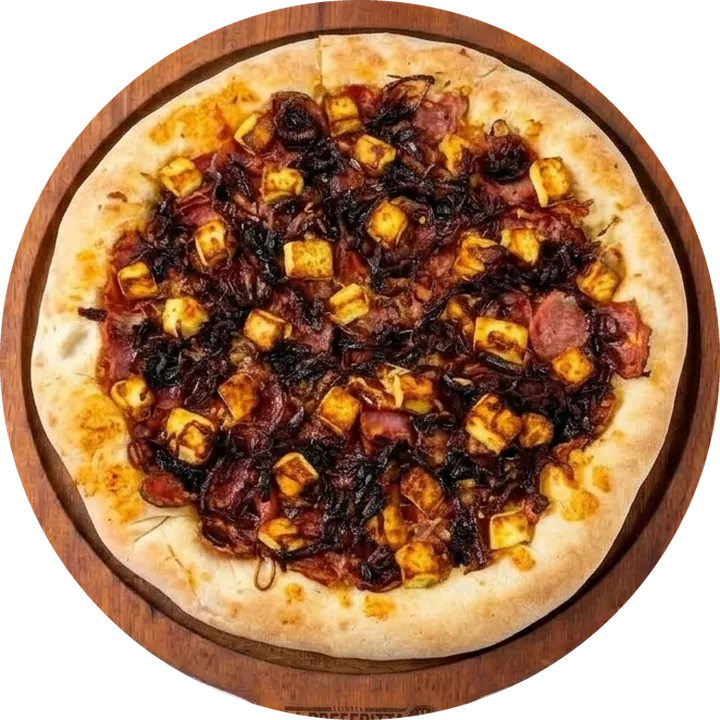
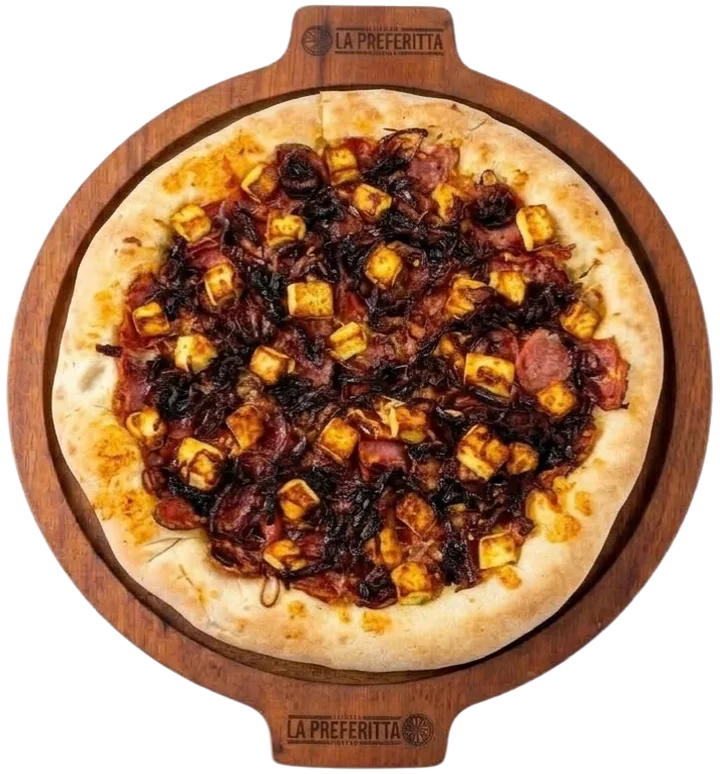
Serve menu pizzas with a straight slide on full boards
Pizzas now slide in from off-page with no rotation, 1s on
cubic-bezier(.17,.67,.14,.96). When the flavor changes, the current board is
pushed out on the same curve one screen apart, so the two never overlap.

- Replace round cutouts with the client's transparent full-board PNGs
  (handles included), aligned on one shared canvas
- Teaser and list thumbnails keep the board shape and no longer spin
- Copy cross-fades in a single grid cell so the panel height stays steady

diff --git a/src/components/menu-section.tsx b/src/components/menu-section.tsx
@@ -21,7 +21,8 @@ import { cardapio, isFilled, menuImage, splitIngredients, type MenuItem } from "
 
 // One easing family for the whole menu: long, soft deceleration.
 const ease = [0.22, 1, 0.36, 1] as const;
-const settle: Transition = { type: "spring", bounce: 0.14, visualDuration: 1.05 };
+// Serving slide: every pizza enters (and is pushed out) with this curve over one second.
+const slide: Transition = { duration: 1, ease: [0.17, 0.67, 0.14, 0.96] };
 
 const salgadas = cardapio.filter((item) => item.kind === "salgada");
 const doces = cardapio.filter((item) => item.kind === "doce");
@@ -87,7 +88,7 @@ function MenuRow({
           src={menuImage(item.slug, "sm")}
           alt=""
           width={440}
-          height={440}
+          height={473}
           loading="lazy"
           decoding="async"
           className="menu-row-thumb"
@@ -165,22 +166,16 @@ function MenuList({
 
 // ---------------------------------------------------------------- detail
 
-// The pizza arrives from beyond the edge of the page, turning as it slides, and
-// settles on the table; it leaves the same way it would be pushed off by hand.
+// The pizza is served from beyond the edge of the page and slides straight to its
+// place on the table, no spin. When the flavor changes, the current board is pushed
+// off the other side on the same curve and at the same time, one full screen apart,
+// so the two never overlap.
 const plateVariants: Variants = {
-  enter: (dir: number) => ({ x: dir > 0 ? "72vw" : "-72vw", rotate: dir > 0 ? 150 : -150 }),
-  center: {
-    x: 0,
-    rotate: 0,
-    transition: { x: settle, rotate: { ...settle, visualDuration: 1.25 } },
-  },
-  exit: (dir: number) => ({
-    x: dir > 0 ? "-72vw" : "72vw",
-    rotate: dir > 0 ? -110 : 110,
-    transition: { duration: 0.75, ease: [0.55, 0, 0.8, 0.3] },
-  }),
-  // Back to the list: the pizza is slid off the table the way it came in.
-  leave: { x: "72vw", rotate: 120, transition: { duration: 0.7, ease: [0.55, 0, 0.8, 0.3] } },
+  enter: (dir: number) => ({ x: dir > 0 ? "100vw" : "-100vw" }),
+  center: { x: 0, transition: slide },
+  exit: (dir: number) => ({ x: dir > 0 ? "-100vw" : "100vw", transition: slide }),
+  // Back to the list: the board slides off the table the way it came in.
+  leave: { x: "100vw", transition: slide },
 };
 
 const copyVariants: Variants = {
@@ -259,23 +254,13 @@ function MenuDetail({
 
       <div className="menu-table">
         <AnimatePresence initial={true} custom={dir} mode="popLayout">
-          <motion.div
-            key={`shadow-${item.slug}`}
-            className="menu-plate-shadow"
-            aria-hidden="true"
-            initial={{ opacity: 0, scale: 0.7 }}
-            animate={{ opacity: 1, scale: 1, transition: { duration: 0.9, ease, delay: 0.45 } }}
-            exit={{ opacity: 0, transition: { duration: 0.25 } }}
-          />
-        </AnimatePresence>
-        <AnimatePresence initial={true} custom={dir} mode="popLayout">
           <motion.img
             key={item.slug}
             src={menuImage(item.slug)}
             srcSet={`${menuImage(item.slug, "sm")} 440w, ${menuImage(item.slug)} 720w`}
-            sizes="(max-width: 1023px) 82vw, 34rem"
+            sizes="(max-width: 1023px) 78vw, 32rem"
             width={720}
-            height={720}
+            height={774}
             alt={`Pizza ${item.name} sobre a tábua da La Preferitta, vista de cima`}
             decoding="async"
             draggable={false}
@@ -298,42 +283,46 @@ function MenuDetail({
       </div>
 
       <div className="menu-copy" aria-live="polite">
-        <AnimatePresence mode="wait" initial={true}>
-          <motion.div
-            key={item.slug}
-            variants={copyVariants}
-            initial="enter"
-            animate={leaving ? "exit" : "center"}
-            exit="exit"
-          >
-            <motion.h3 ref={focusTitle} tabIndex={-1} variants={copyLine} className="menu-name">
-              {item.name}
-            </motion.h3>
-            <motion.p variants={copyLine} className="menu-kind">
-              Pizza {item.kind}
-            </motion.p>
-            <ul className="menu-ingredients" aria-label="Ingredientes">
-              {splitIngredients(item.ingredients).map((ingredient) => (
-                <motion.li key={ingredient} variants={copyLine}>
-                  {ingredient}
-                </motion.li>
-              ))}
-            </ul>
-            {isFilled(item.price) && (
-              <motion.p variants={copyLine} className="menu-price">
-                {item.price}
+        {/* Old and new copy cross-fade in one grid cell, so the height never collapses. */}
+        <div className="menu-copy-stack">
+          <AnimatePresence initial={true}>
+            <motion.div
+              key={item.slug}
+              className="menu-copy-item"
+              variants={copyVariants}
+              initial="enter"
+              animate={leaving ? "exit" : "center"}
+              exit="exit"
+            >
+              <motion.h3 ref={focusTitle} tabIndex={-1} variants={copyLine} className="menu-name">
+                {item.name}
+              </motion.h3>
+              <motion.p variants={copyLine} className="menu-kind">
+                Pizza {item.kind}
               </motion.p>
-            )}
-            <motion.div variants={copyLine} className="mt-8">
-              <OrderTarja
-                tone="ink"
-                label="Pedir esta pizza"
-                ariaLabel={`Pedir esta pizza: ${item.name}`}
-                className="sm:max-w-sm"
-              />
+              <ul className="menu-ingredients" aria-label="Ingredientes">
+                {splitIngredients(item.ingredients).map((ingredient) => (
+                  <motion.li key={ingredient} variants={copyLine}>
+                    {ingredient}
+                  </motion.li>
+                ))}
+              </ul>
+              {isFilled(item.price) && (
+                <motion.p variants={copyLine} className="menu-price">
+                  {item.price}
+                </motion.p>
+              )}
+              <motion.div variants={copyLine} className="mt-8">
+                <OrderTarja
+                  tone="ink"
+                  label="Pedir esta pizza"
+                  ariaLabel={`Pedir esta pizza: ${item.name}`}
+                  className="sm:max-w-sm"
+                />
+              </motion.div>
             </motion.div>
-          </motion.div>
-        </AnimatePresence>
+          </AnimatePresence>
+        </div>
 
         <div className="menu-pager">
           <button type="button" className="menu-step" onClick={() => onStep(-1)}>
@@ -456,18 +445,14 @@ export function MenuSection() {
                     src={menuImage(slug, "sm")}
                     alt=""
                     width={440}
-                    height={440}
+                    height={473}
                     loading="lazy"
                     decoding="async"
                     className={`menu-teaser-plate menu-teaser-${i}`}
-                    initial={{ x: "60vw", rotate: 160, opacity: 1 }}
-                    animate={teaserInView ? { x: 0, rotate: 0 } : { x: "60vw", rotate: 160 }}
-                    transition={{ ...settle, delay: 0.15 + i * 0.16 }}
-                    exit={{
-                      x: "60vw",
-                      rotate: -120,
-                      transition: { duration: 0.7, ease: [0.55, 0, 0.8, 0.3], delay: i * 0.06 },
-                    }}
+                    initial={{ x: "100vw" }}
+                    animate={teaserInView ? { x: 0 } : { x: "100vw" }}
+                    transition={{ ...slide, delay: 0.15 + i * 0.18 }}
+                    exit={{ x: "100vw", transition: { ...slide, delay: i * 0.08 } }}
                   />
                 ))}
             </AnimatePresence>

diff --git a/src/styles.css b/src/styles.css
@@ -1431,7 +1431,7 @@
   .menu-teaser-plate {
     position: absolute;
     width: 9.5rem;
-    aspect-ratio: 1;
+    aspect-ratio: 713 / 766;
     filter: drop-shadow(0 14px 16px oklch(0.17 0.006 50 / 0.28));
     transition:
       rotate 1400ms var(--ease-out),
@@ -1453,15 +1453,12 @@
     top: 1.5rem;
   }
   .menu-section:has(.menu-open:hover) .menu-teaser-0 {
-    rotate: -18deg;
     translate: -0.4rem 0;
   }
   .menu-section:has(.menu-open:hover) .menu-teaser-1 {
-    rotate: 24deg;
     translate: 0 -0.4rem;
   }
   .menu-section:has(.menu-open:hover) .menu-teaser-2 {
-    rotate: -14deg;
     translate: 0.4rem 0;
   }
   @media (min-width: 768px) {
@@ -1534,7 +1531,8 @@
   }
   .menu-row-thumb {
     width: 3.4rem;
-    height: 3.4rem;
+    height: auto;
+    aspect-ratio: 713 / 766;
     filter: drop-shadow(0 5px 6px oklch(0.17 0.006 50 / 0.25));
     transition:
       rotate 1200ms var(--ease-out),
@@ -1560,8 +1558,7 @@
   }
   .menu-row:hover .menu-row-thumb,
   .menu-row:focus-visible .menu-row-thumb {
-    rotate: 45deg;
-    scale: 1.14;
+    scale: 1.12;
   }
   .menu-row:hover .menu-row-name,
   .menu-row:focus-visible .menu-row-name {
@@ -1619,7 +1616,7 @@
   }
   @media (min-width: 1024px) {
     .menu-detail .menu-table {
-      width: min(100%, 34rem);
+      width: min(100%, 32rem);
     }
     .menu-back {
       flex-direction: column;
@@ -1635,8 +1632,8 @@
   .menu-table {
     position: relative;
     justify-self: center;
-    width: min(82vw, 34rem);
-    aspect-ratio: 1;
+    width: min(78vw, 32rem);
+    aspect-ratio: 713 / 766;
     margin-bottom: 2.5rem;
     touch-action: pan-y;
   }
@@ -1650,19 +1647,7 @@
     -webkit-user-drag: none;
     touch-action: pan-y;
     will-change: transform;
-  }
-  .menu-plate-shadow {
-    position: absolute;
-    inset: 4%;
-    border-radius: 50%;
-    background: radial-gradient(
-      closest-side,
-      oklch(0.17 0.006 50 / 0.42),
-      oklch(0.17 0.006 50 / 0.16) 70%,
-      transparent
-    );
-    translate: 3% 5%;
-    filter: blur(16px);
+    filter: drop-shadow(0 18px 22px oklch(0.17 0.006 50 / 0.3));
   }
   .menu-swipe-hint {
     position: absolute;
@@ -1690,6 +1675,12 @@
 
   .menu-copy {
     max-width: 34rem;
+  }
+  .menu-copy-stack {
+    display: grid;
+  }
+  .menu-copy-item {
+    grid-area: 1 / 1;
   }
   .menu-name {
     font-family: var(--font-didone);
